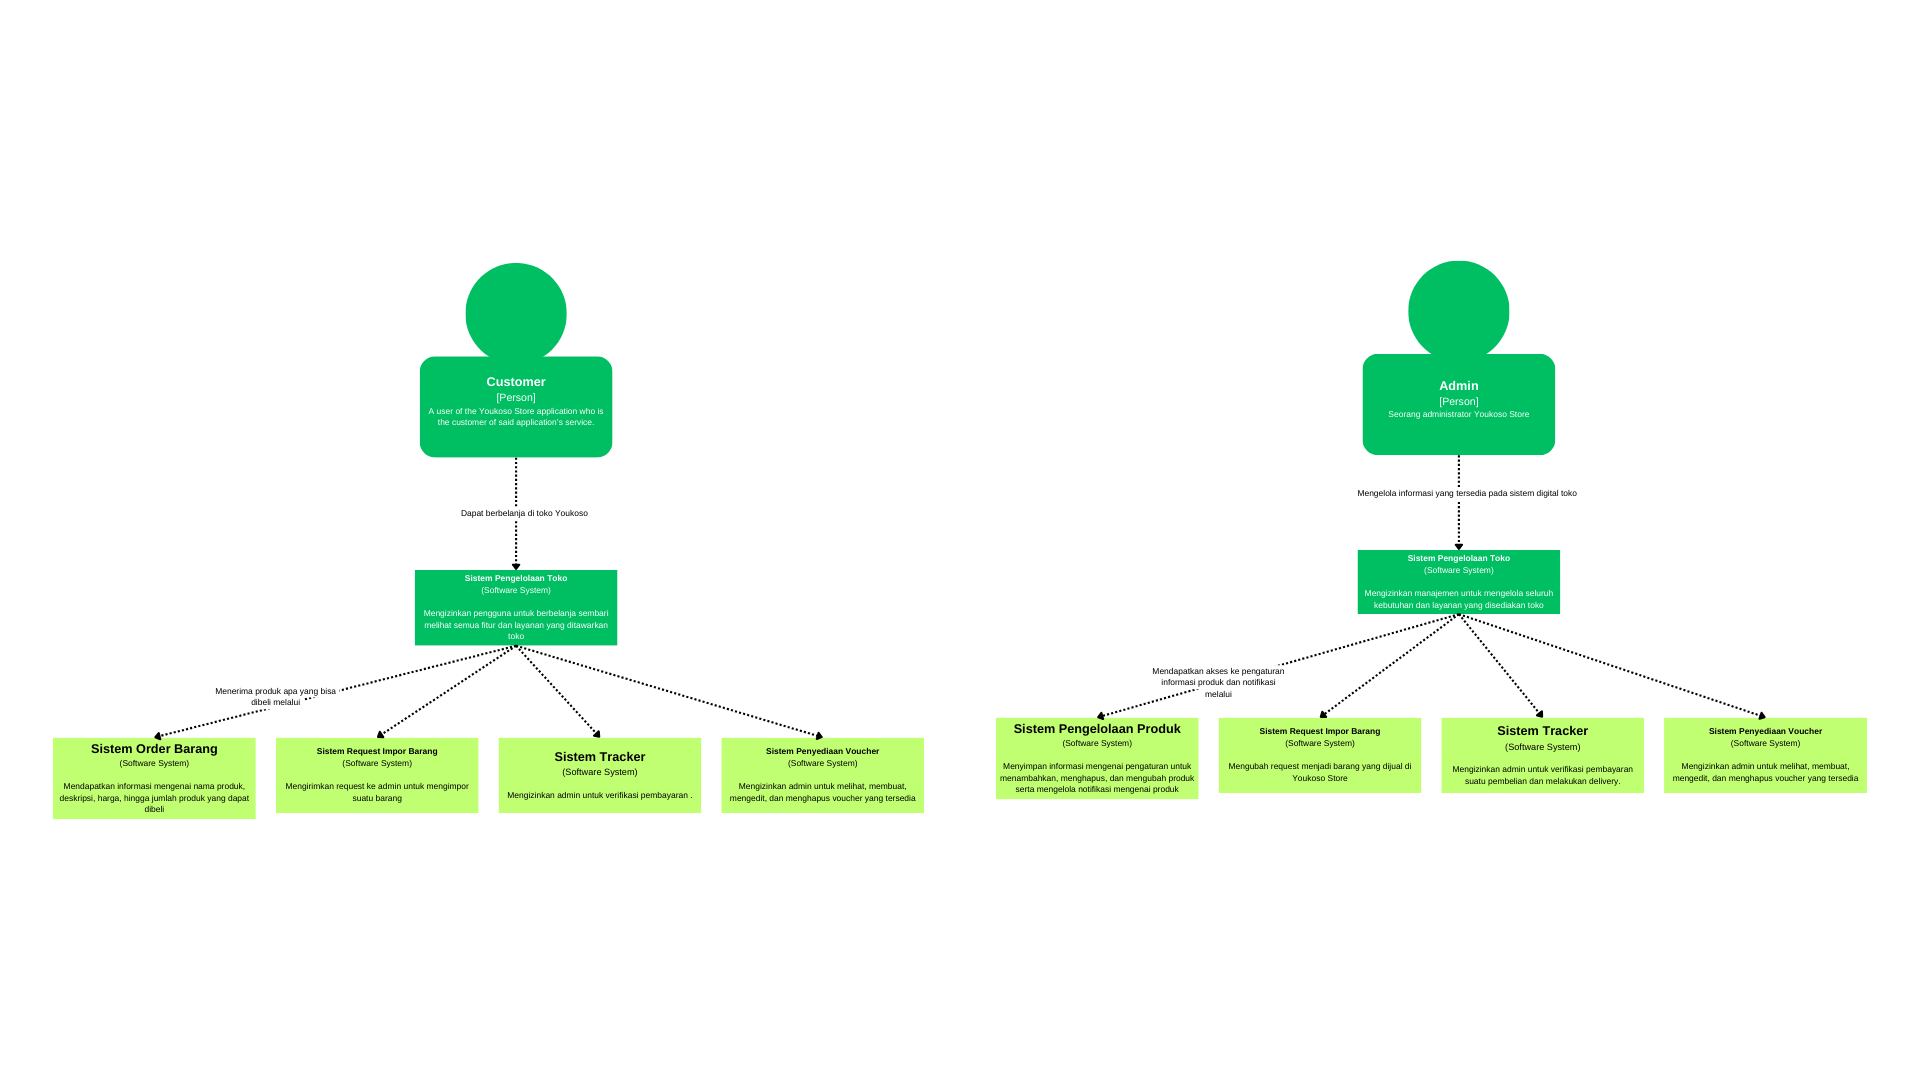
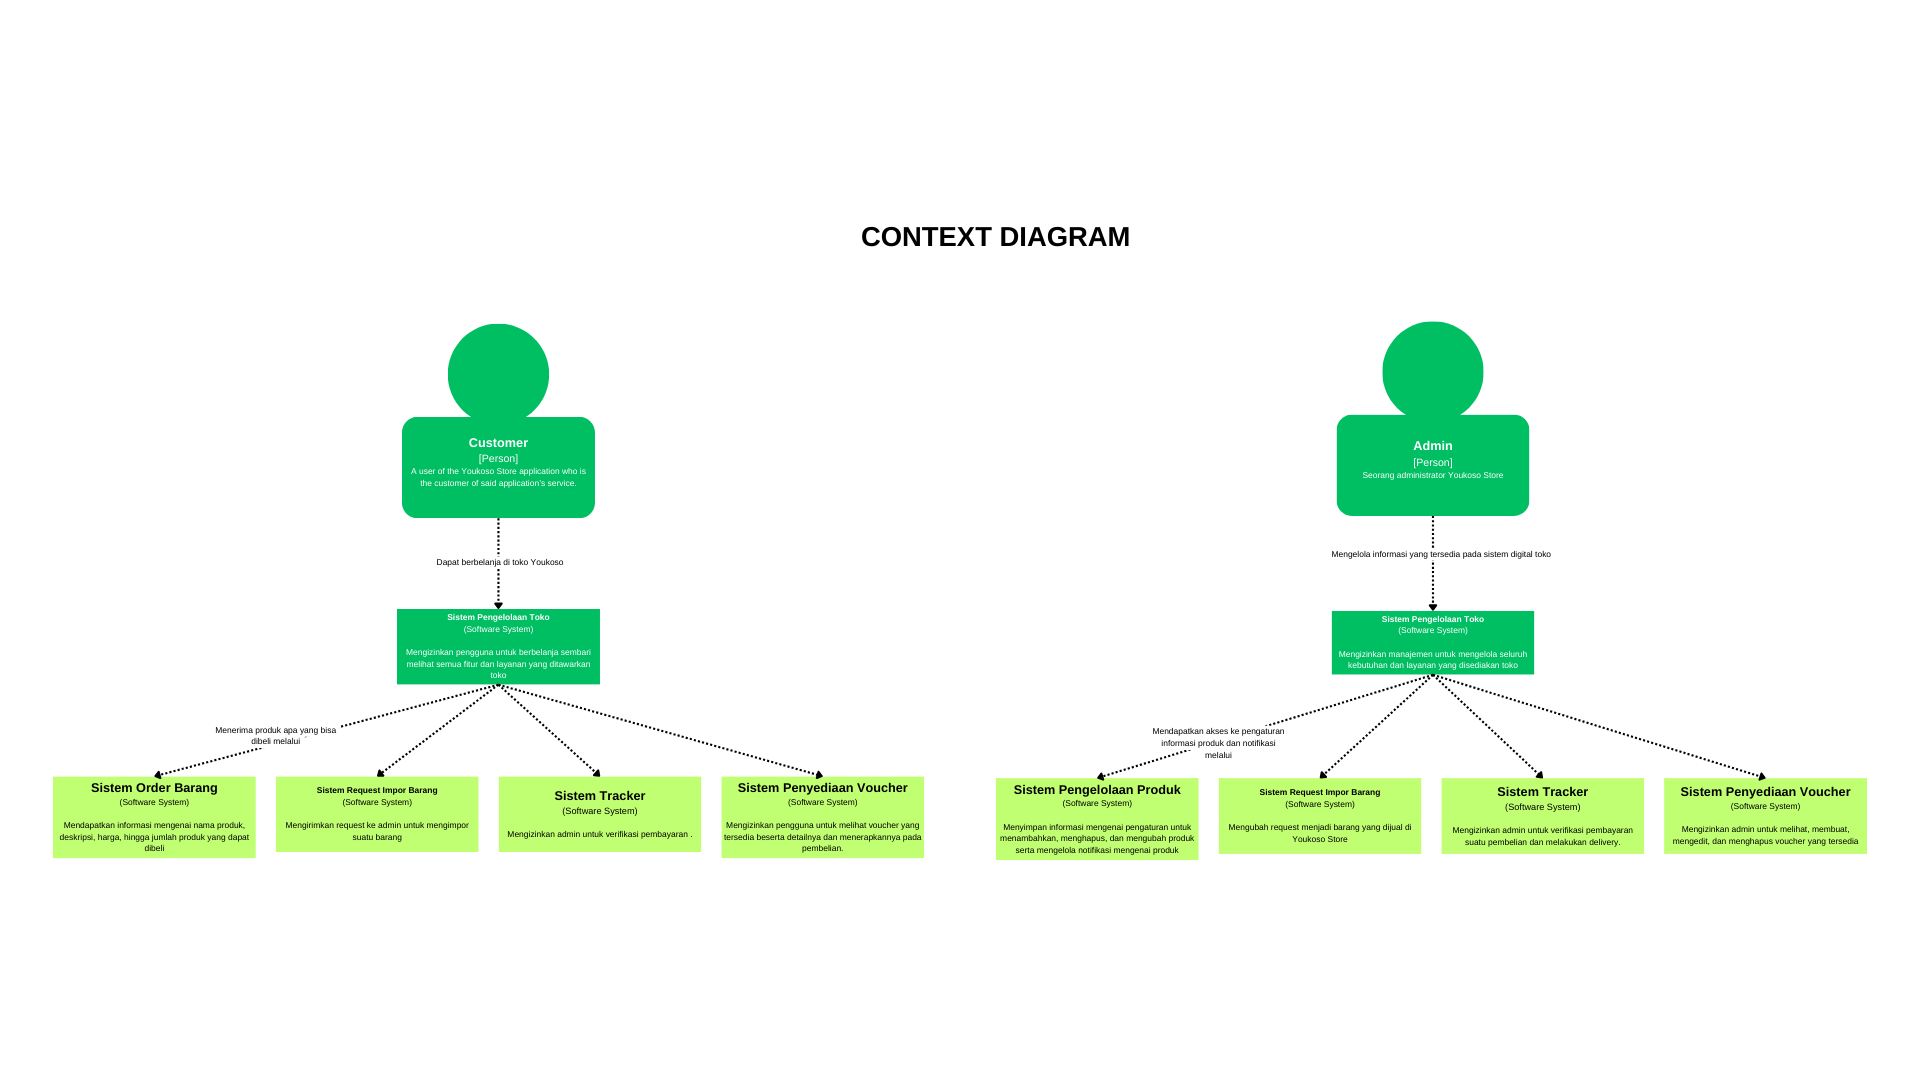
voucher management diagrams

Changed region(s): [[0.0, 0.2444, 1.0, 0.7944], [0.1875, 0.2444, 0.3438, 0.4889], [0.4375, 0.2139, 0.5938, 0.2444]]

diff --git a/README.md b/README.md
@@ -18,10 +18,14 @@ AFTER
 # Component
 ## Prod Management
 ![](image/component-prodmanagement.png)
+## Voucher Management
+![](image/component-vouchermanagement.png)
 
 # Code
 ## Prod Management
 ![](image/code-prodmanagement.png)
+## Voucher Management
+![](image/code-vouchermanagement.png)
 
 
 Risk storming is a collaborative technique where team members from various roles identify, assess, and prioritize project risks. This method encourages open communication and ensures a comprehensive understanding of potential risks, leading to proactive risk management and informed decision-making.
